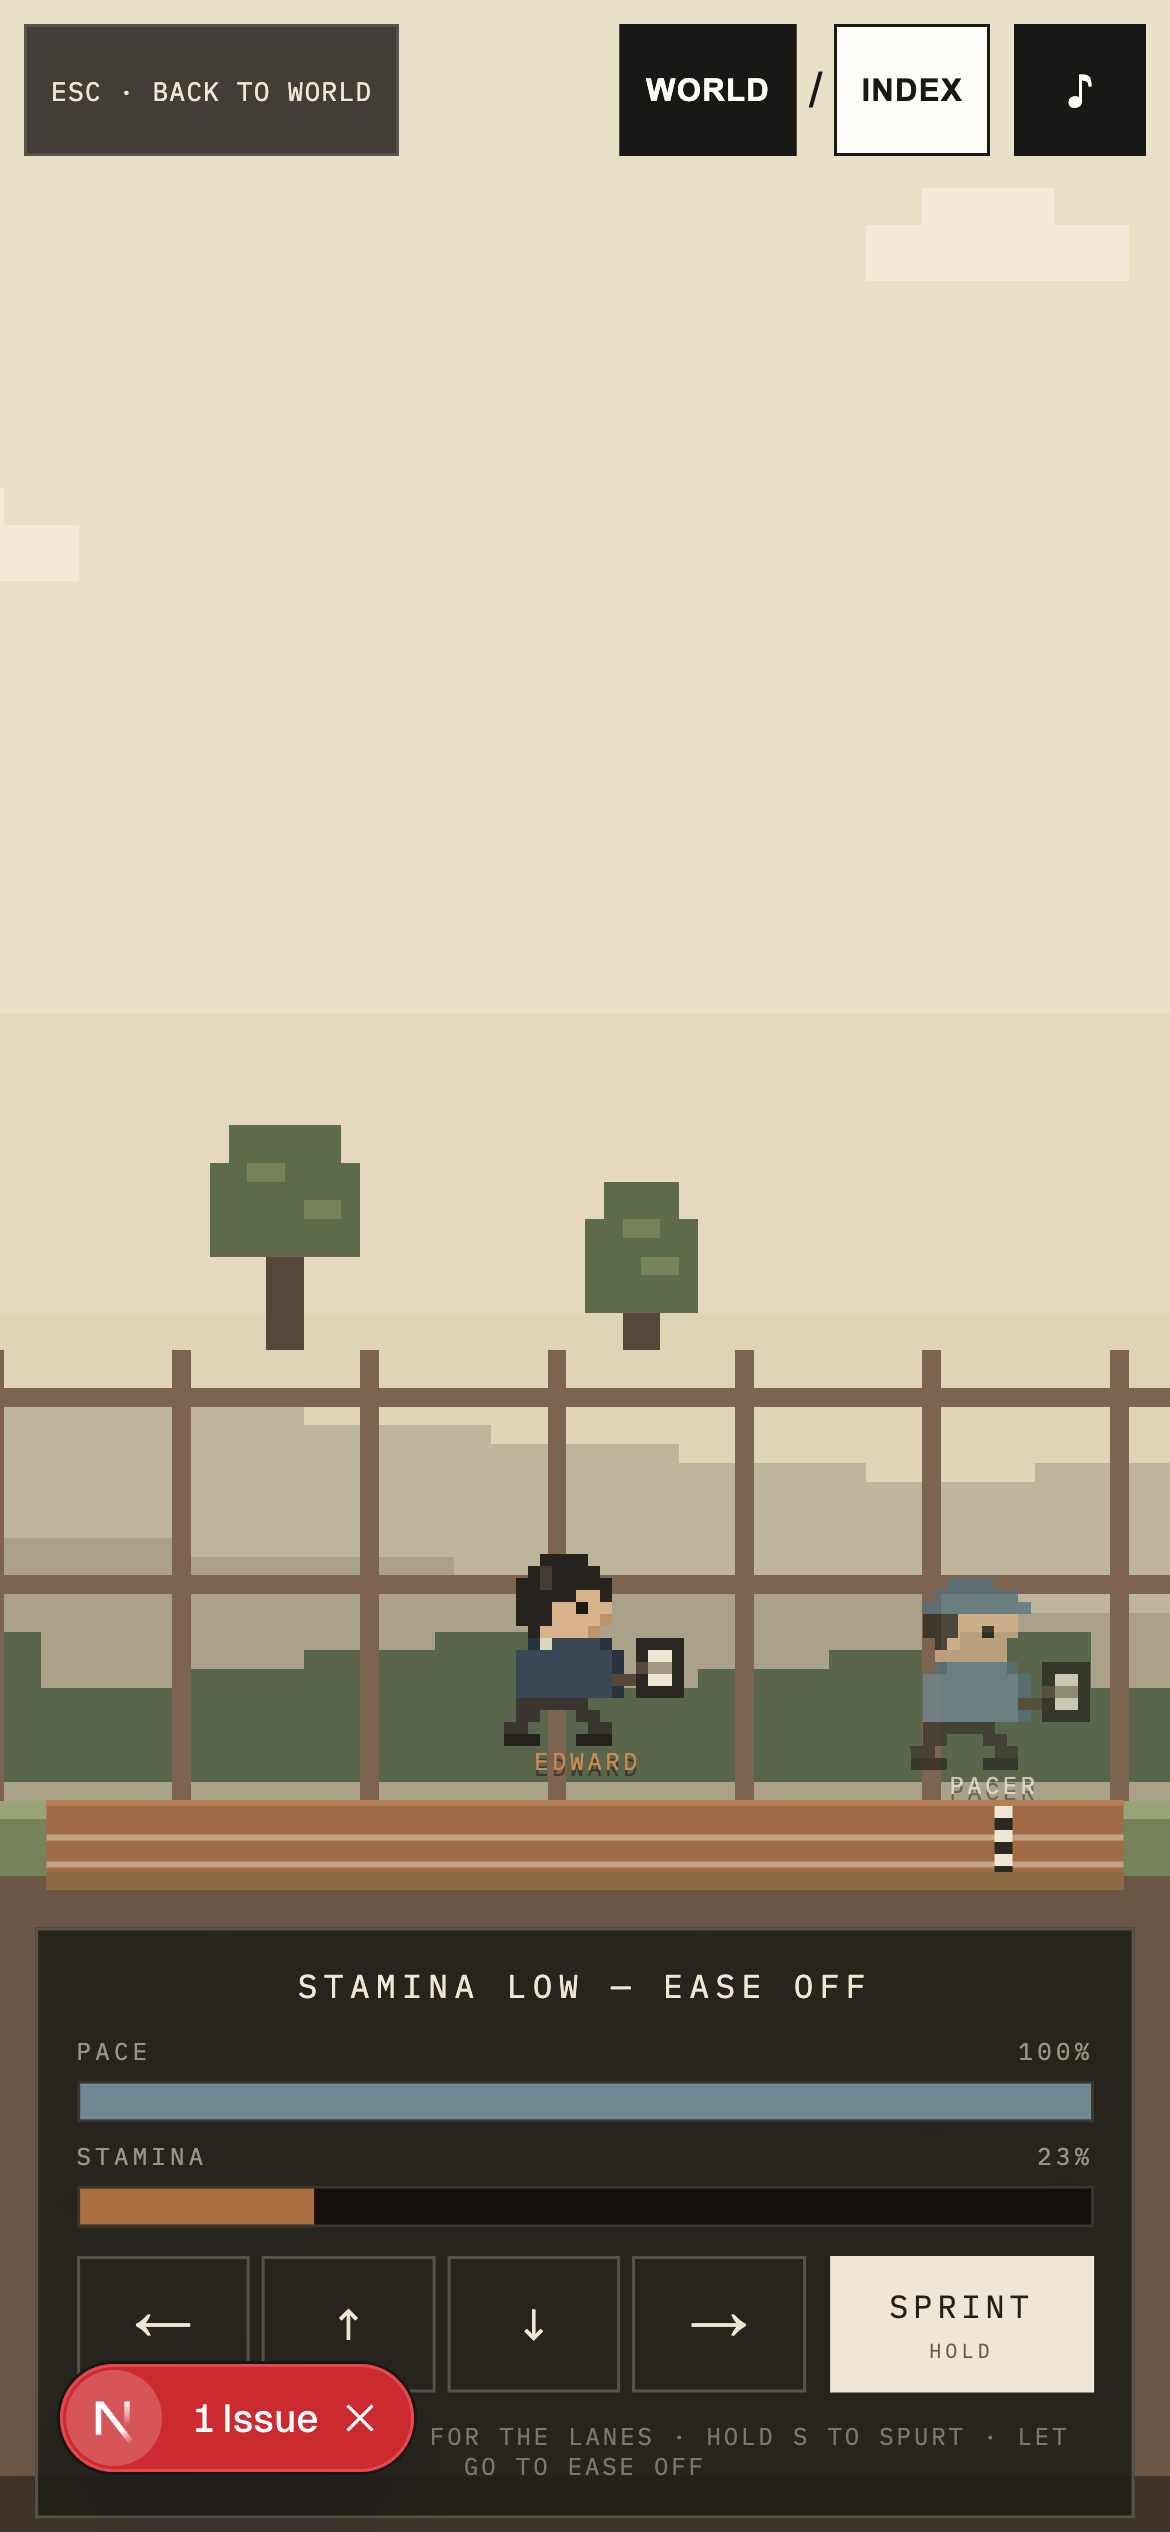
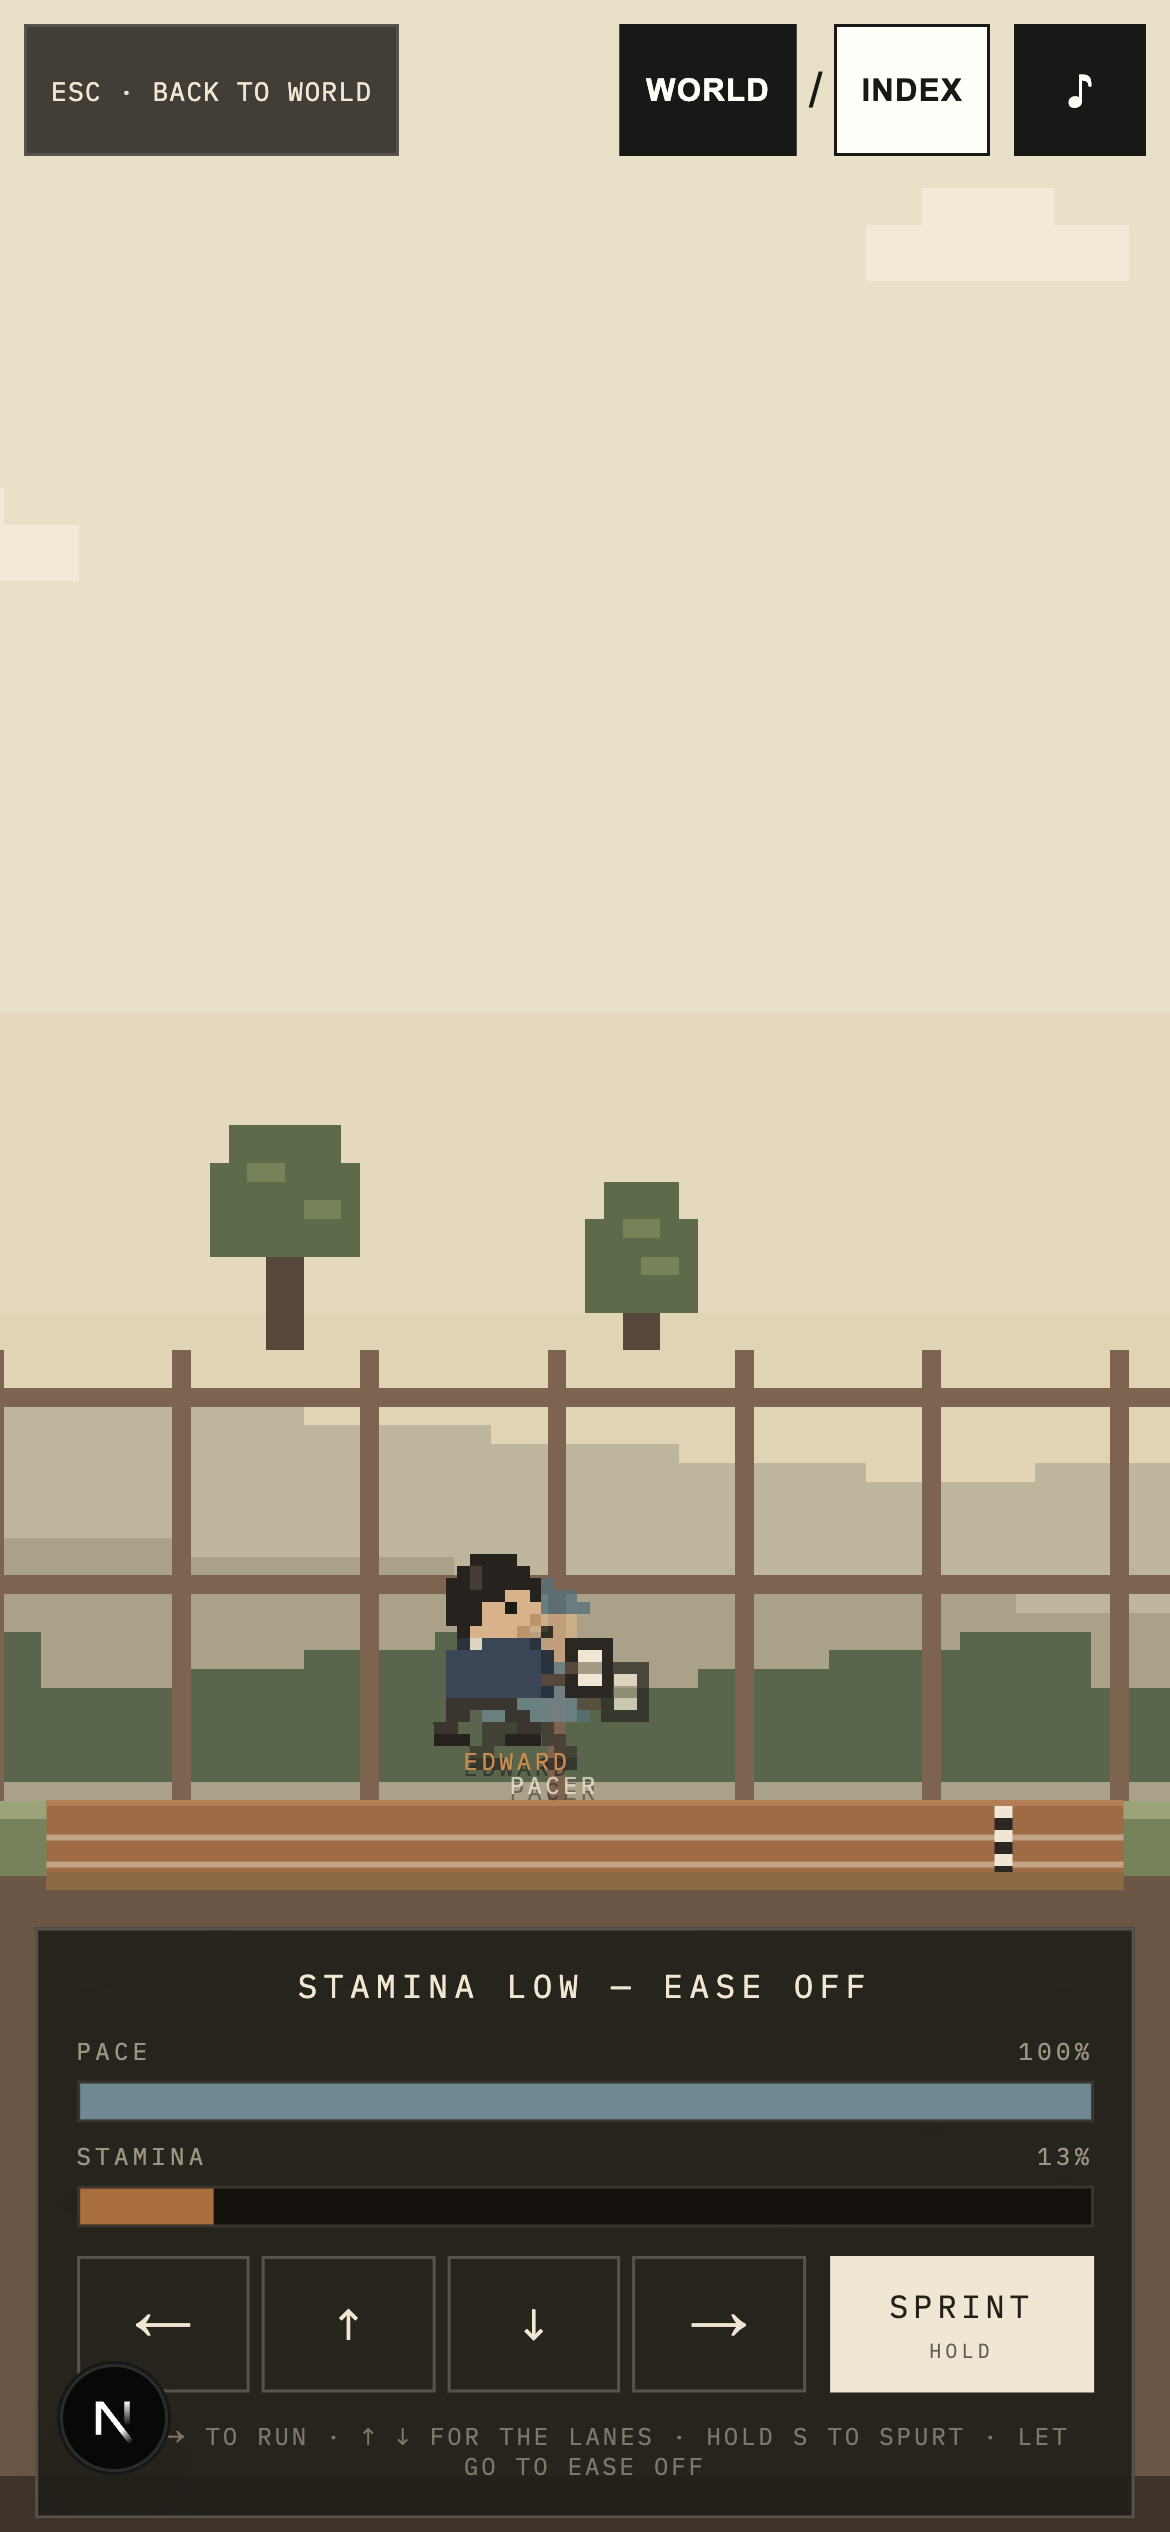
fix: report the spurt as held, not as working
Two things a second review caught, both about the moment a control and its
effect disagree.

SPRINT's `aria-pressed` was wired to `pace > CRUISE_PACE`, which is whether the
spurt is *working*, not whether it is *held*. Standing still, winding up from
cruise, and staggering on an empty tank all leave the pace at or below cruise
with the control very much pressed — so the button unlit itself and told a
screen reader "not pressed" at exactly the moments a player most needs to know
their finger is still down. It now reads a `sprintHeld` state taken from
`input.sprint`. The runner's own `data-pushing` lean stays on pace, because
that one really is about effect.

The basketball's last shot snapped back to the player's hands on the
FEEDBACK to DONE tick, because `DONE` was not counted as in flight. The state
still holds that shot's flight and release, so counting it leaves the ball
where it finished.

Also adds the mobile flight and rim captures. The brief asks for stationary,
in flight and near the rim at both viewports; only desktop had all three, and
the gap was not listed as NOT_RUN either. The ball holds its four seams at 15px
in flight as well as at rest. Evidence recaptured after a reload, so no
screenshot carries the dev-tools badge raised by the harness's own
setPointerCapture probe.

Claude-Session: https://claude.ai/code/session_01CHLLGk4L3U1EvDXSkwLDuu

diff --git a/components/sportsgang/minigames/running-game.tsx b/components/sportsgang/minigames/running-game.tsx
@@ -47,6 +47,14 @@ export function RunningGame({ active, onFinish }: MinigameProps) {
   // it takes the map that puts `S` on its own channel instead of on `down`.
   const { consume, bind, clear } = useMinigameInput(active, { keyMap: RUNNING_KEY_MAP });
   const [state, setState] = useState<RunningState>(createRunningState);
+  /**
+   * Whether the spurt is *held*, which is not the same as whether it is
+   * working. Standing still, winding up from cruise, or staggering on an empty
+   * tank all leave the pace at or below cruise while the control is very much
+   * pressed. The button reports the control's own state, because that is what
+   * a control's pressed state means and what a screen reader is being told.
+   */
+  const [sprintHeld, setSprintHeld] = useState(false);
   const stateRef = useRef(state);
   const finished = useRef(false);
 
@@ -55,6 +63,7 @@ export function RunningGame({ active, onFinish }: MinigameProps) {
       const next = advanceRunning(stateRef.current, input, delta);
       stateRef.current = next;
       setState(next);
+      setSprintHeld(input.sprint === true);
 
       if (next.done && !finished.current) {
         finished.current = true;
@@ -79,6 +88,8 @@ export function RunningGame({ active, onFinish }: MinigameProps) {
   const pacerX =
     START_X + (getPacerDistance(state.elapsed) / RACE_METRES) * (FINISH_X - START_X);
 
+  // The runner's own tell is about effect: he only leans into it when the legs
+  // are actually answering. The button above is about the press.
   const spurting = state.pace > CRUISE_PACE + 0.05;
 
   return (
@@ -163,7 +174,7 @@ export function RunningGame({ active, onFinish }: MinigameProps) {
 
           <button
             aria-label="Hold to spurt, spending stamina"
-            aria-pressed={spurting}
+            aria-pressed={sprintHeld}
             className="sg-play__action sg-run-sprint"
             type="button"
             {...bind("sprint")}

diff --git a/components/sportsgang/minigames/basketball-game.tsx b/components/sportsgang/minigames/basketball-game.tsx
@@ -135,7 +135,12 @@ export function BasketballGame({ active, onFinish }: MinigameProps) {
   // How far the shot actually travels is the release strength, nothing else.
   const reach = getShotReach(state.release);
   const travel = Math.min(reach, 1.25);
-  const inFlight = state.phase === "SHOT" || state.phase === "FEEDBACK";
+  // `DONE` counts as in flight so the last shot does not snap back to the
+  // player's hands for the frame between the session ending and the RESULT
+  // panel taking over. The state still holds that shot's `flight` and
+  // `release`, so the ball simply stays where it finished.
+  const inFlight =
+    state.phase === "SHOT" || state.phase === "FEEDBACK" || state.phase === "DONE";
 
   // The ball is in the player's hands before the shot and on its arc after it,
   // so the court is never a basketball court without a basketball on it.

diff --git a/docs/sportsgang-polish/HANDOFF-C.md b/docs/sportsgang-polish/HANDOFF-C.md
@@ -179,8 +179,9 @@ Screenshots in `docs/sportsgang-polish/evidence-c/`.
 |---|---|
 | Reads as a basketball unaided, desktop | PASS — `basketball-desktop-detail-at-rest-27px.png` |
 | Reads as a basketball unaided, mobile | PASS — `…mobile-detail-at-rest-15px.png`, all four seams survive at 15px |
-| Panels readable while spinning | PASS — `…detail-in-flight-27px.png`: seams turned, shading still lit from the upper left |
-| At rest / in flight / at the rim | PASS — three desktop captures |
+| Panels readable while spinning | PASS — `…detail-in-flight-27px.png` and `…mobile-detail-in-flight-15px.png`: seams turned, shading still lit from the upper left at both sizes |
+| At rest / in flight / at the rim | PASS — **all three states captured at both viewports** |
+| Last shot does not snap back | PASS — `DONE` now counts as in flight, so the ball stays where it finished |
 | Size against the hoop | desktop ball 27px vs ring 51.8px = **1.92**; a real ball-to-rim is 1.88 |
 | Mobile size floor | ball 15px vs ring 20.7px = 1.38 — the `clamp()` floor engages below ~500px of court, deliberately |
 | Aspect ratio fixed | PASS — measured `width === height` exactly at both viewports; no ellipse |
@@ -215,10 +216,13 @@ Measured off the live gauges and the runner's inline position.
 | Finish and restart | PASS — replay starts at 0%, 100%, 200 M, position 8% |
 | Other-sport regression | PASS — golf played through with Space; `S` inert there, prompt unchanged |
 | Mobile controls | four-way pad + held SPRINT, keys 58×45px (above the 44px target) |
-| HUD, hints, `aria-label`s | updated to the real controls; SPRINT reflects `aria-pressed` |
+| HUD, hints, `aria-label`s | updated to the real controls |
+| SPRINT `aria-pressed` | PASS — reports the **press**, not its effect: `true` while held standing still (pace 0%) and while exhausted, `false` the moment it is let go |
 
 Console during play: clean apart from a pre-existing `/favicon.ico` 404 and the
-`setPointerCapture` error the harness itself provoked (REQUESTS C-3).
+`setPointerCapture` error the harness itself provoked (REQUESTS C-3). The
+evidence was recaptured after a reload so no screenshot carries the dev-tools
+issue badge that error raised.
 
 **A layout defect was found on screen and fixed.** On a phone an existing rule
 moves the whole HUD from above the court to below it; the three-row pad made the
@@ -245,7 +249,8 @@ bottom is now 839px against an 844px viewport. Fixed in C's own CSS block only.
 
 ## 5 · Advisor
 
-Run via the configured `advisor` tool, once before committing to an approach.
+Run via the configured `advisor` tool **twice**: once before committing to an
+approach, once with the work finished and the gates green.
 Per CONTRACT.md the tool takes no model parameter and reports no model identity,
 so **the backing model could not be verified from this environment**; the brief
 names Fable 5.1, recorded as intent, not as a verified fact. Not ADVISOR_NOT_RUN
@@ -269,10 +274,24 @@ What it changed:
 - Warned that the shared MCP Chrome profile might be held by another session and
   to record `NOT_RUN` rather than fabricate. It was free.
 
-I did not take its suggestion of a `PixelCanvas` raster ball; the size analysis
-(15px on a phone, below one CSS pixel per art pixel) pointed to SVG, and
-`sport-venue.tsx` already sets that precedent for this layer. Recorded here
-because it is a deliberate departure.
+The second review caught three things, all fixed before this handoff:
+
+- **`aria-pressed` on SPRINT was reporting effect, not press.** It was wired to
+  `pace > CRUISE_PACE`, so holding the control while standing still, while
+  winding up, or while exhausted reported `false` and left the button unlit —
+  an accessible state that lies exactly when the player most needs to know the
+  control is down. Now driven by a `sprintHeld` state read from `input.sprint`.
+  The runner's own `data-pushing` tell stays on pace, because that one really is
+  about effect.
+- **The last shot snapped back to the player's hands** on the `FEEDBACK → DONE`
+  tick, because `DONE` was not counted as in flight. Fixed.
+- **The mobile evidence was missing flight and rim**, which the brief asks for
+  at both viewports, and was not listed as `NOT_RUN` either. Captured.
+
+On the art: SVG was simply the right call here. The ball is 15 CSS px on a
+phone, below one CSS pixel per art pixel for any grid fine enough to carry a
+seam, and `sport-venue.tsx` already builds this layer from geometry for that
+same reason.
 
 ---
 
